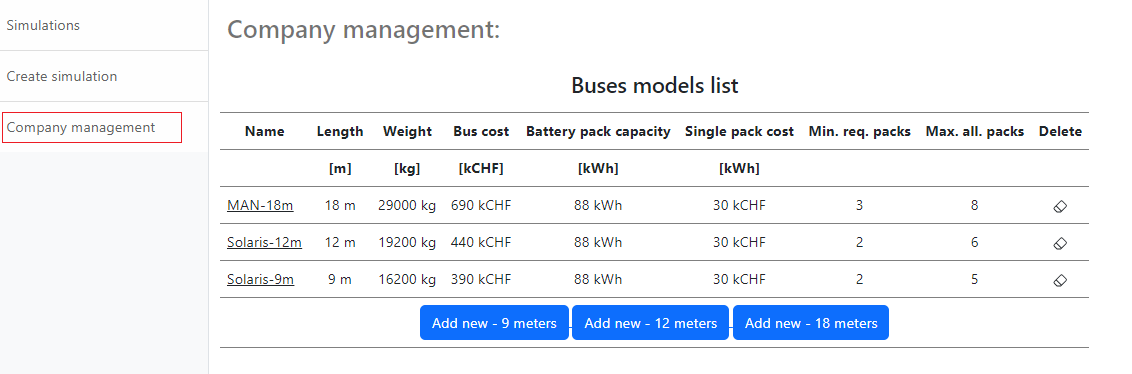
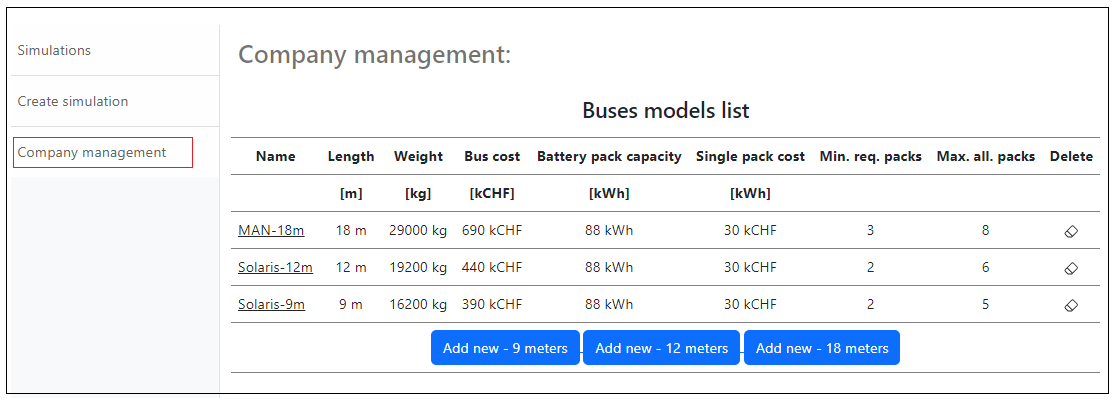
new image for buses, update readme accordingly

diff --git a/README.md b/README.md
@@ -84,13 +84,21 @@ The user profile encapsulates all the information related to a particular user t
 
 ### Company management section
 
-If you use the tool for the first time, you must set up a company profile. Click on “company management,” and you will be taken to a page, shown in the following image, 
-that lets you describe information related to your bus fleet, terminal stations, and trip distances. This is fundamental information that is required to set up the optimization model.
+The company management section is where you can manage your company specific input data. These include the type of buses you wish to simulate, the bus terminals, 
+and the distances between the terminal stations. Specifying these data under company profile makes it easier to reuse the same data for multiple simulations.
 
-![Company Page](https://github.com/supsi-dacd-isaac/pvxte-web/blob/main/docs/img/buses.png)
+As shown in Figure 3, the pre-existing bus models appears in at the top of the company management section as a table. 
 
-The pre-existing bus models are displayed in a table. You can add a new bus model by clicking “Add new”. You may also edit an existing bus model by clicking on the name of 
-the existing bus model in the table. The information required to describe a bus model accurately is available from the electric bus manufacturers. Some important points to note:
+shows a section of the company management section. The left menu shows the different options available under the company management section. You can add 
+a new bus model by clicking “Add new”. You may also edit an existing bus model by clicking on the name of 
+the existing bus model in the table.
+
+<p align="center">
+  <img src="https://github.com/supsi-dacd-isaac/pvxte-web/blob/main/docs/img/buses.png" alt="bus models" width="85%"/>
+</p>
+<p align="center"><em>Figure 4: Company management - Bus models</em></p>
+
+The information required to describe a bus model accurately is available from the electric bus manufacturers. Some important points to note:
 * The current model only supports evaluating the feasibility of a fully electrified fleet. Therefore, only electric bus models may be inserted,
 * All bus models inserted into the web tool will be stored in a database under the company profile that you create. That means you can reuse the same bus model for a feasibility assessment again using the same login. This is true for all other inputs as well.
 
